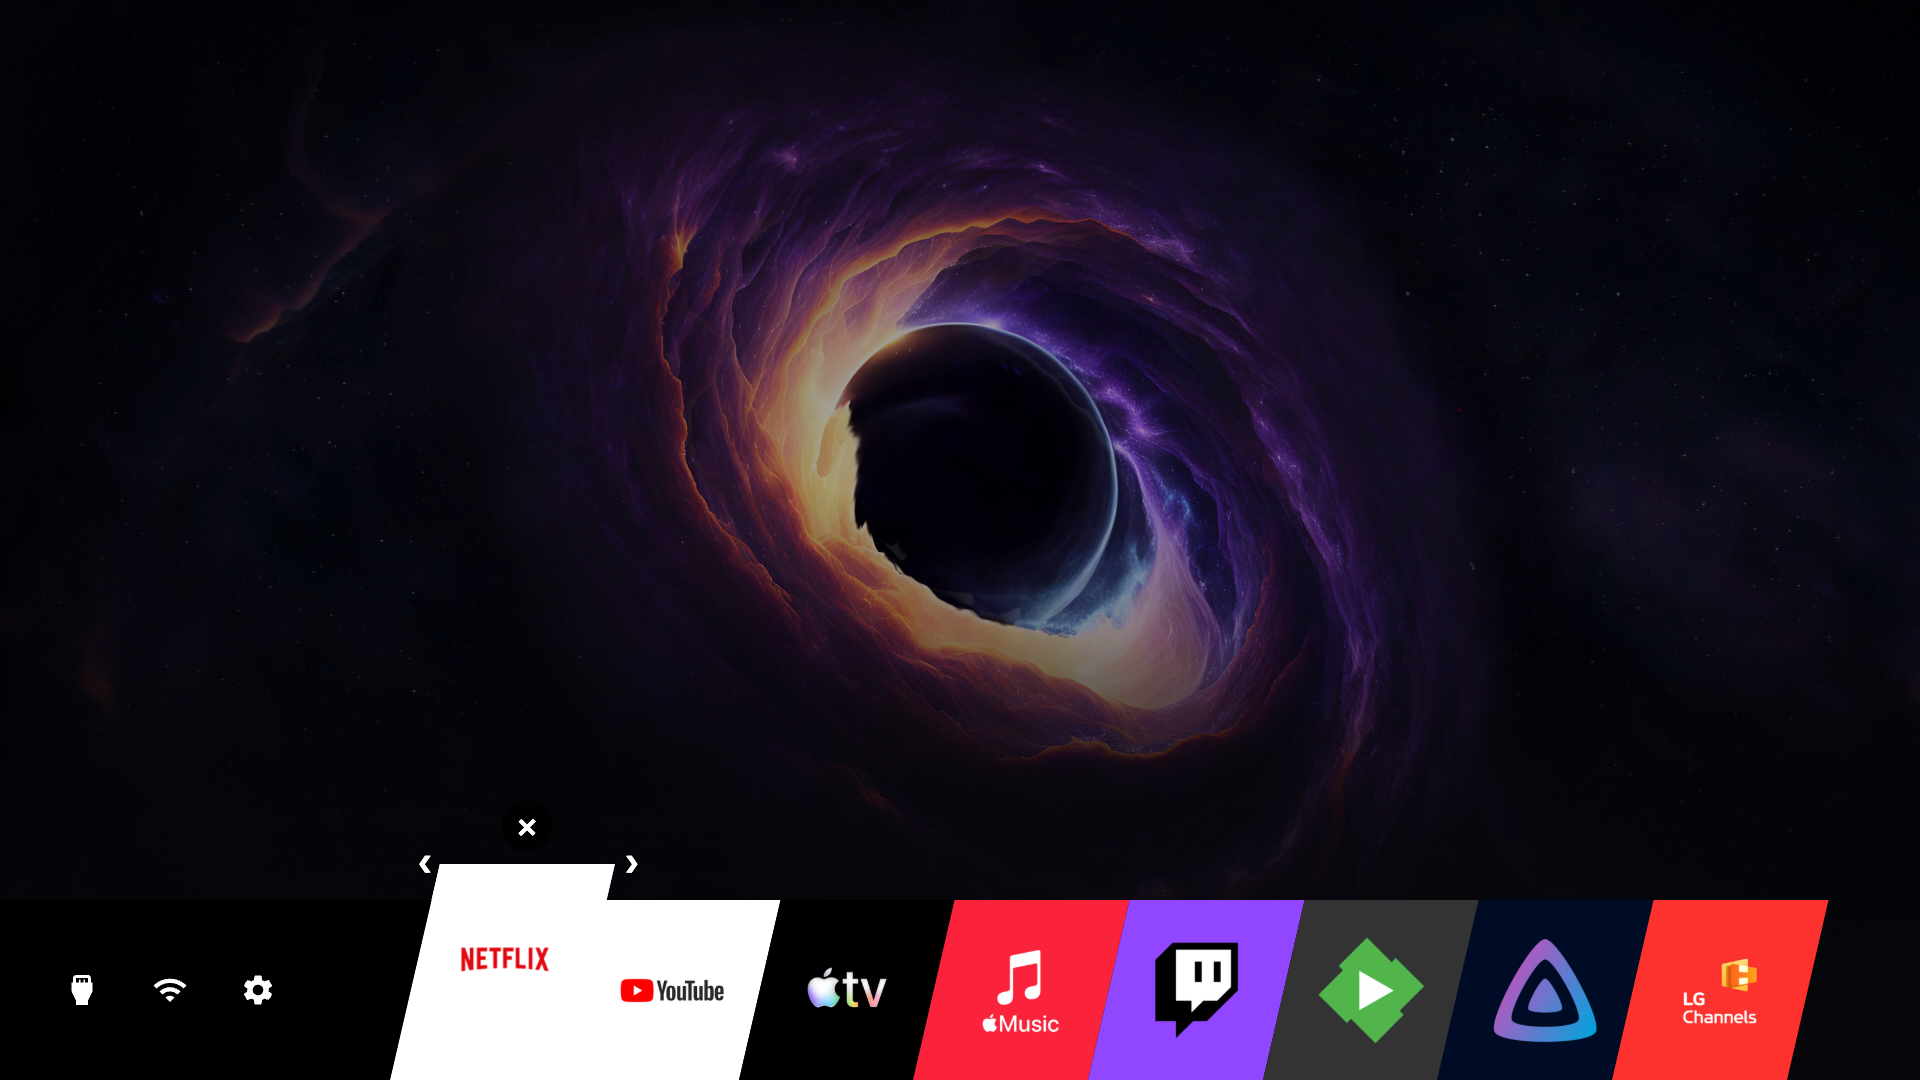
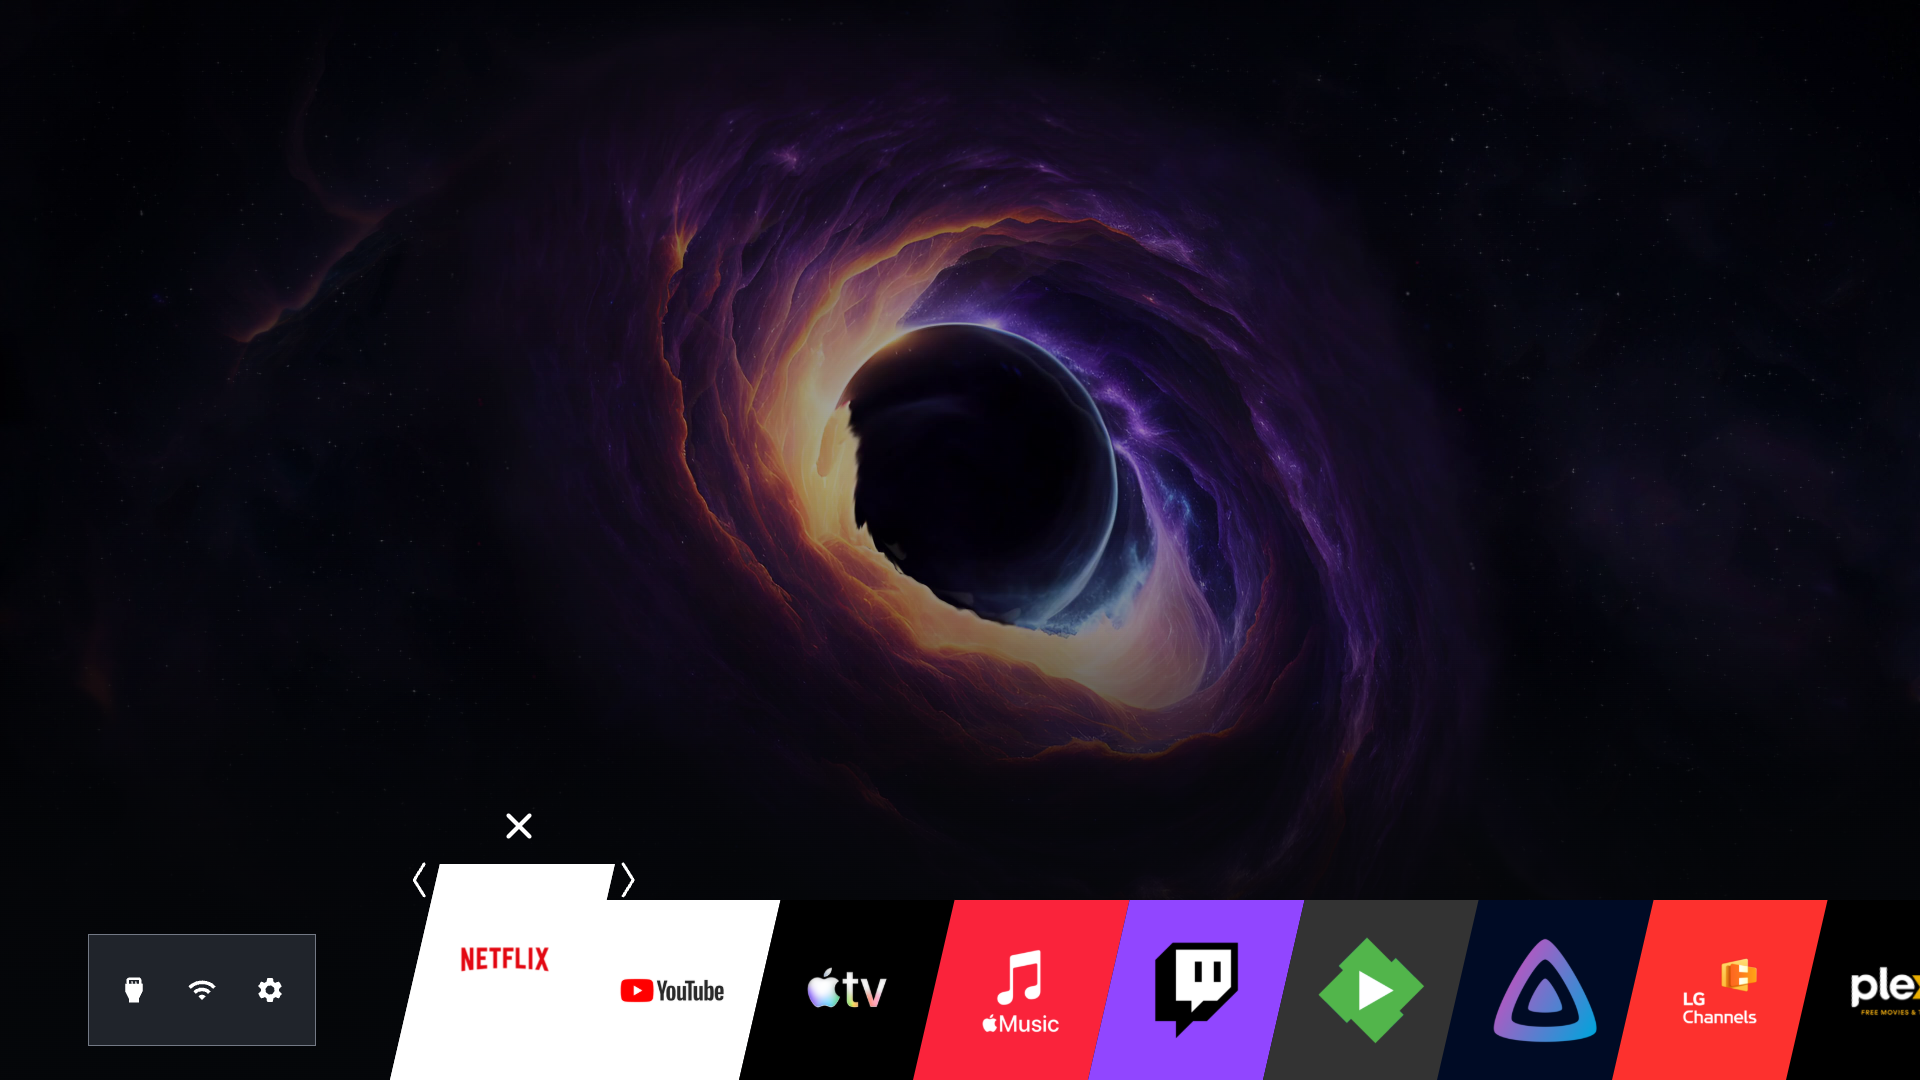
Anchor Ribbon controls to card top and continue the right edge

diff --git a/launcher/theme-runtime.js b/launcher/theme-runtime.js
@@ -112,11 +112,11 @@
       ribbonRule('.item .card img', 'width:' + (r.iconScale * 100) + '%;height:' + (r.cardHeight * r.iconScale) + 'px;left:' + ((1 - r.iconScale) * 50) + '%;top:' + (r.cardHeight * (1 - r.iconScale) / 2) + 'px;');
       ribbonRule('.add-app svg', 'width:' + (64 * r.iconScale) + 'px;height:' + (64 * r.iconScale) + 'px;');
       ribbonRule('.item .ctv-icon', 'transform:skewX(' + (-r.skewDeg) + 'deg)!important;');
-      ribbonRule('.item .name', 'transform:skewX(' + (-r.skewDeg) + 'deg)!important;');
+      ribbonRule('.item .name', 'transform:skewX(' + (-r.skewDeg) + 'deg)!important;transition:none!important;');
       if (r.labels === 'focused-above') {
         ribbonRule('#hero', 'display:none!important;');
         ribbonRule('.item .name', 'display:none!important;');
-        ribbonRule('.item.focused .name', 'display:block!important;position:absolute;left:0;right:0;bottom:' + (r.cardHeight + r.focusLift + 20) + 'px;margin:0 -40px;height:auto;max-height:96px;line-height:32px;white-space:normal;overflow:hidden;opacity:1!important;color:#fff!important;text-shadow:0 2px 8px #000;');
+        ribbonRule('.item.focused .name', 'display:block!important;position:absolute;left:0;right:0;bottom:' + (r.cardHeight + r.focusLift + 20) + 'px;margin:0 -40px;height:auto;max-height:96px;line-height:32px;white-space:normal;overflow:hidden;opacity:1!important;color:#fff!important;text-shadow:0 2px 8px #000;transform-origin:center bottom;transform:translateX(' + (Math.tan(r.skewDeg * Math.PI / 180) * 20) + 'px) skewX(' + (-r.skewDeg) + 'deg)!important;');
       }
       else ribbonRule('.item .name', 'position:absolute;top:' + (r.cardHeight + 16) + 'px;left:0;right:0;margin:0 -32px;line-height:32px;height:32px;');
       if (!r.showClock) ribbonRule('#timeRow', 'display:none!important;');
@@ -128,9 +128,9 @@
         ribbonRule('#topButtons .pill svg', 'width:32px;height:32px;margin:0;');
         if (manifest.layout.presentation === 'overlay') {
           // A compact outlined block stays distinct from the bottom shade and app lane.
-          var shortcutHeight = Math.max(80, r.cardHeight - 48);
-          ribbonRule('#topButtons', 'left:' + (r.left - 260) + 'px;bottom:' + (r.bottom + 18) + 'px;width:244px;height:' + shortcutHeight + 'px;align-items:center;justify-content:center;');
-          ribbonRule('#topButtons::before', 'content:"";position:absolute;left:0;top:0;bottom:0;width:100%;box-sizing:border-box;border:1px solid #6b7078;background:#111318;transform:skewX(' + r.skewDeg + 'deg);transform-origin:center bottom;pointer-events:none;');
+          var shortcutHeight = Math.max(80, r.cardHeight - 68);
+          ribbonRule('#topButtons', 'left:' + (r.left - 252) + 'px;bottom:' + (r.bottom + (r.cardHeight - shortcutHeight) / 2) + 'px;width:228px;height:' + shortcutHeight + 'px;align-items:center;justify-content:center;');
+          ribbonRule('#topButtons::before', 'content:"";position:absolute;left:0;top:0;bottom:0;width:100%;box-sizing:border-box;border:1px solid #737985;background:#20242b;transform:none;pointer-events:none;');
           ribbonRule('#topButtons .pill', 'position:relative;width:60px;height:60px;margin:0 4px;padding:0;background:transparent;border:3px solid transparent;transform:none;');
           ribbonRule('#topButtons .pill.focused', 'background:#303238;border-color:#fff;');
           ribbonRule('#topButtons .pill svg', 'width:30px;height:30px;');

diff --git a/launcher/app.js b/launcher/app.js
@@ -425,7 +425,7 @@
     }
     document.body.classList.remove('ribbon-editing');
     if (hideButton.parentNode !== document.body) document.body.appendChild(hideButton);
-    hideButton.style.left = ''; hideButton.style.top = ''; editHint.style.top = '';
+    hideButton.style.left = ''; hideButton.style.top = ''; hideButton.style.webkitTransition = hideButton.style.transition = ''; editHint.style.top = '';
   }
   function positionRibbonEditor() {
     if (!moveState || !layoutGeometry.ribbon) return;
@@ -438,11 +438,12 @@
         arrow.className = 'ribbon-edit-arrow ribbon-edit-' + side;
         arrow.setAttribute('aria-hidden', 'true');
         arrow.innerHTML = '<svg viewBox="0 0 24 40" aria-hidden="true"><path d="' + (side === 'left' ? 'M16 4L6 20l10 16' : 'M8 4l10 16L8 36') + '"/></svg>';
-        arrow.style.top = (-ribbon.focusLift - 20) + 'px';
+        arrow.style.top = (-ribbon.focusLift - 4) + 'px';
         arrow.style.webkitTransform = arrow.style.transform = 'skewX(' + (-ribbon.skewDeg) + 'deg)';
         item.el.appendChild(arrow);
       });
     }
+    hideButton.style.webkitTransition = hideButton.style.transition = item.el.style.transition;
     var slant = -(ribbon.cardHeight + ribbon.focusLift) * Math.tan(ribbon.skewDeg * Math.PI / 180);
     hideButton.style.left = (tileLeft(focusedTile) + CARD_WIDTH / 2 + slant) + 'px';
     hideButton.style.top = (TILE_BASE - ribbon.focusLift - 64) + 'px';
@@ -933,7 +934,7 @@
       var previousSlot = Number(e.el.getAttribute('data-ribbon-slot'));
       e.el.style.webkitTransition = e.el.style.transition = slot === null ? '' : e.el.hasAttribute('data-ribbon-slot') && Math.abs(previousSlot - slot) === 1 && previousSlot <= columnCount && slot <= columnCount ? 'left 160ms ease-out' : 'none';
       e.el.style.pointerEvents = slot !== null && slot >= columnCount ? 'none' : '';
-      e.el.style.visibility = slot !== null && slot >= columnCount ? 'hidden' : '';
+      e.el.style.visibility = slot !== null && slot > columnCount ? 'hidden' : '';
       if (slot === null) e.el.removeAttribute('data-ribbon-slot'); else e.el.setAttribute('data-ribbon-slot', slot);
       e.el.style.left = tileLeft(t) + "px";
       e.el.style.top = tileTop(t) + "px";

diff --git a/launcher/style.css b/launcher/style.css
@@ -944,3 +944,5 @@ body.ribbon-editing #hideApp span { position: absolute; width: 1px; height: 1px;
 body.ribbon-editing #hideApp.focused { background: transparent; color: #fff; }
 body.ribbon-editing #hideApp.focused .ribbon-delete-mark { width: 44px; height: 44px; stroke-width: 3.2; }
 body.ribbon-editing #editHint { bottom: auto; color: #fff; text-shadow: 0 2px 6px #000; }
+
+#homeSurface.ctv-remote-navigation #hideApp { transition: none !important; }
